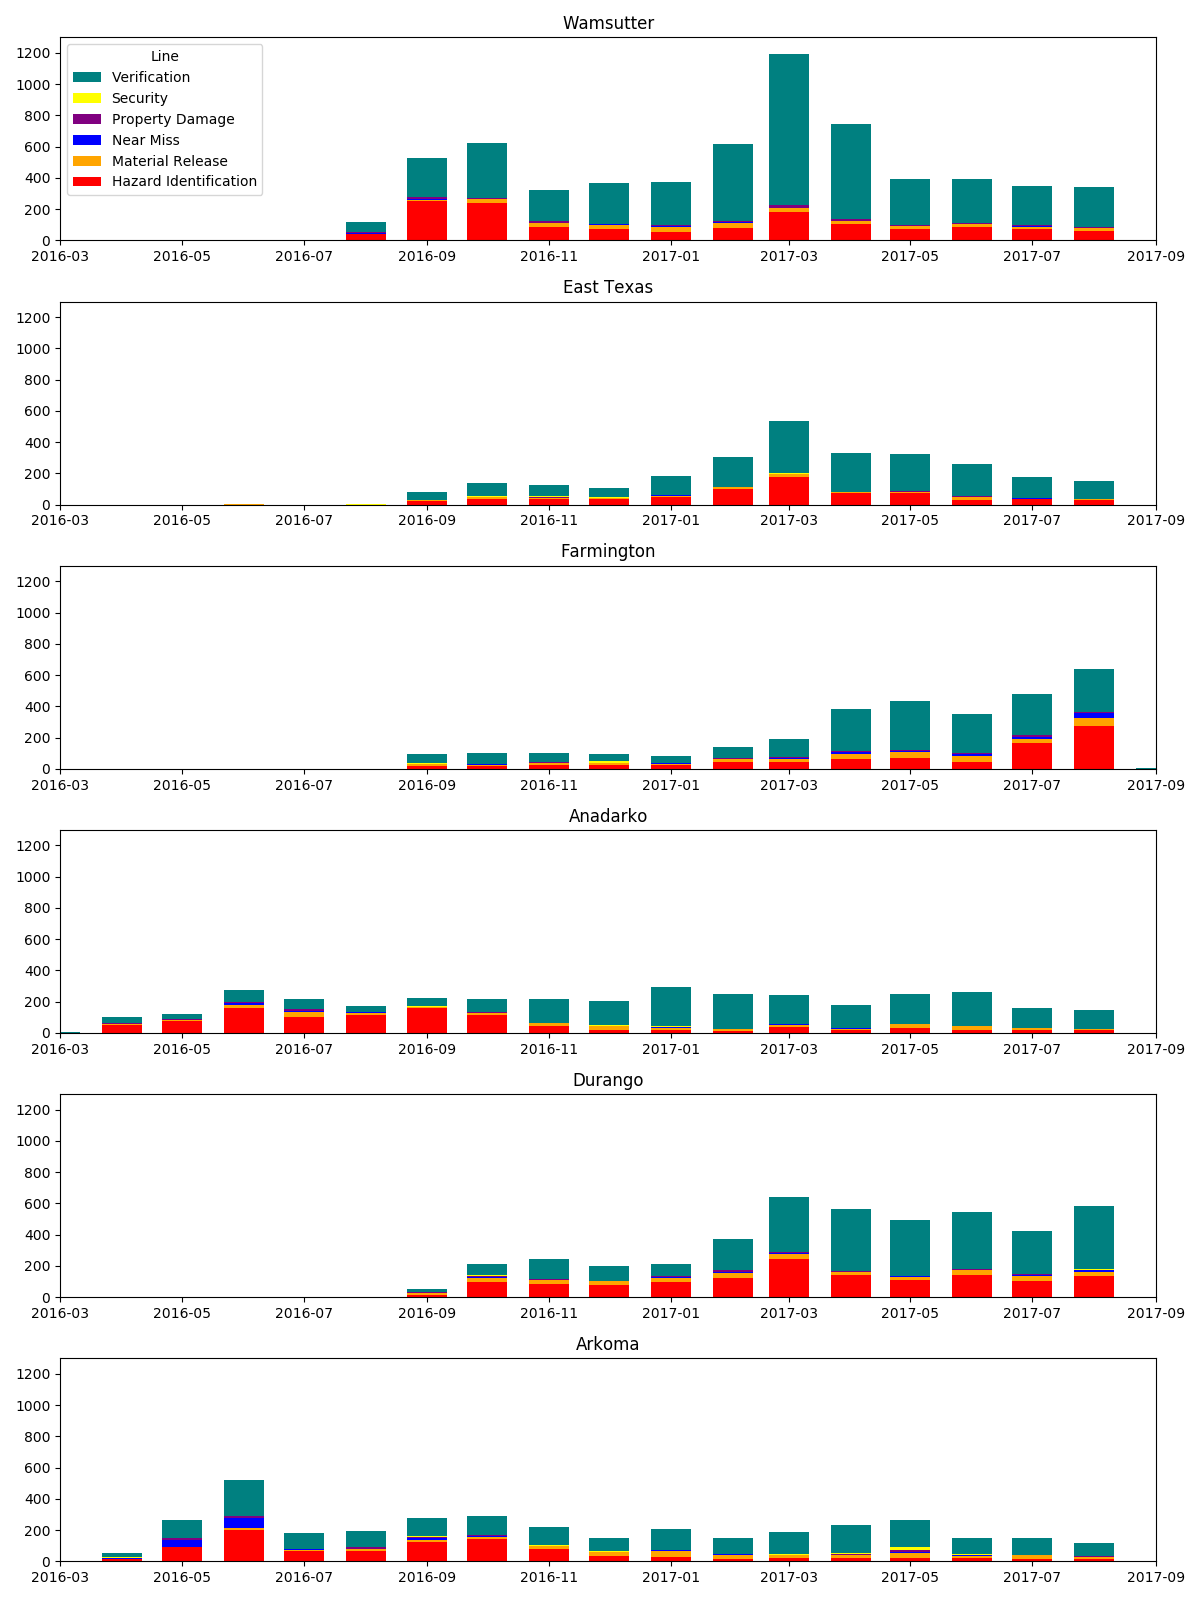
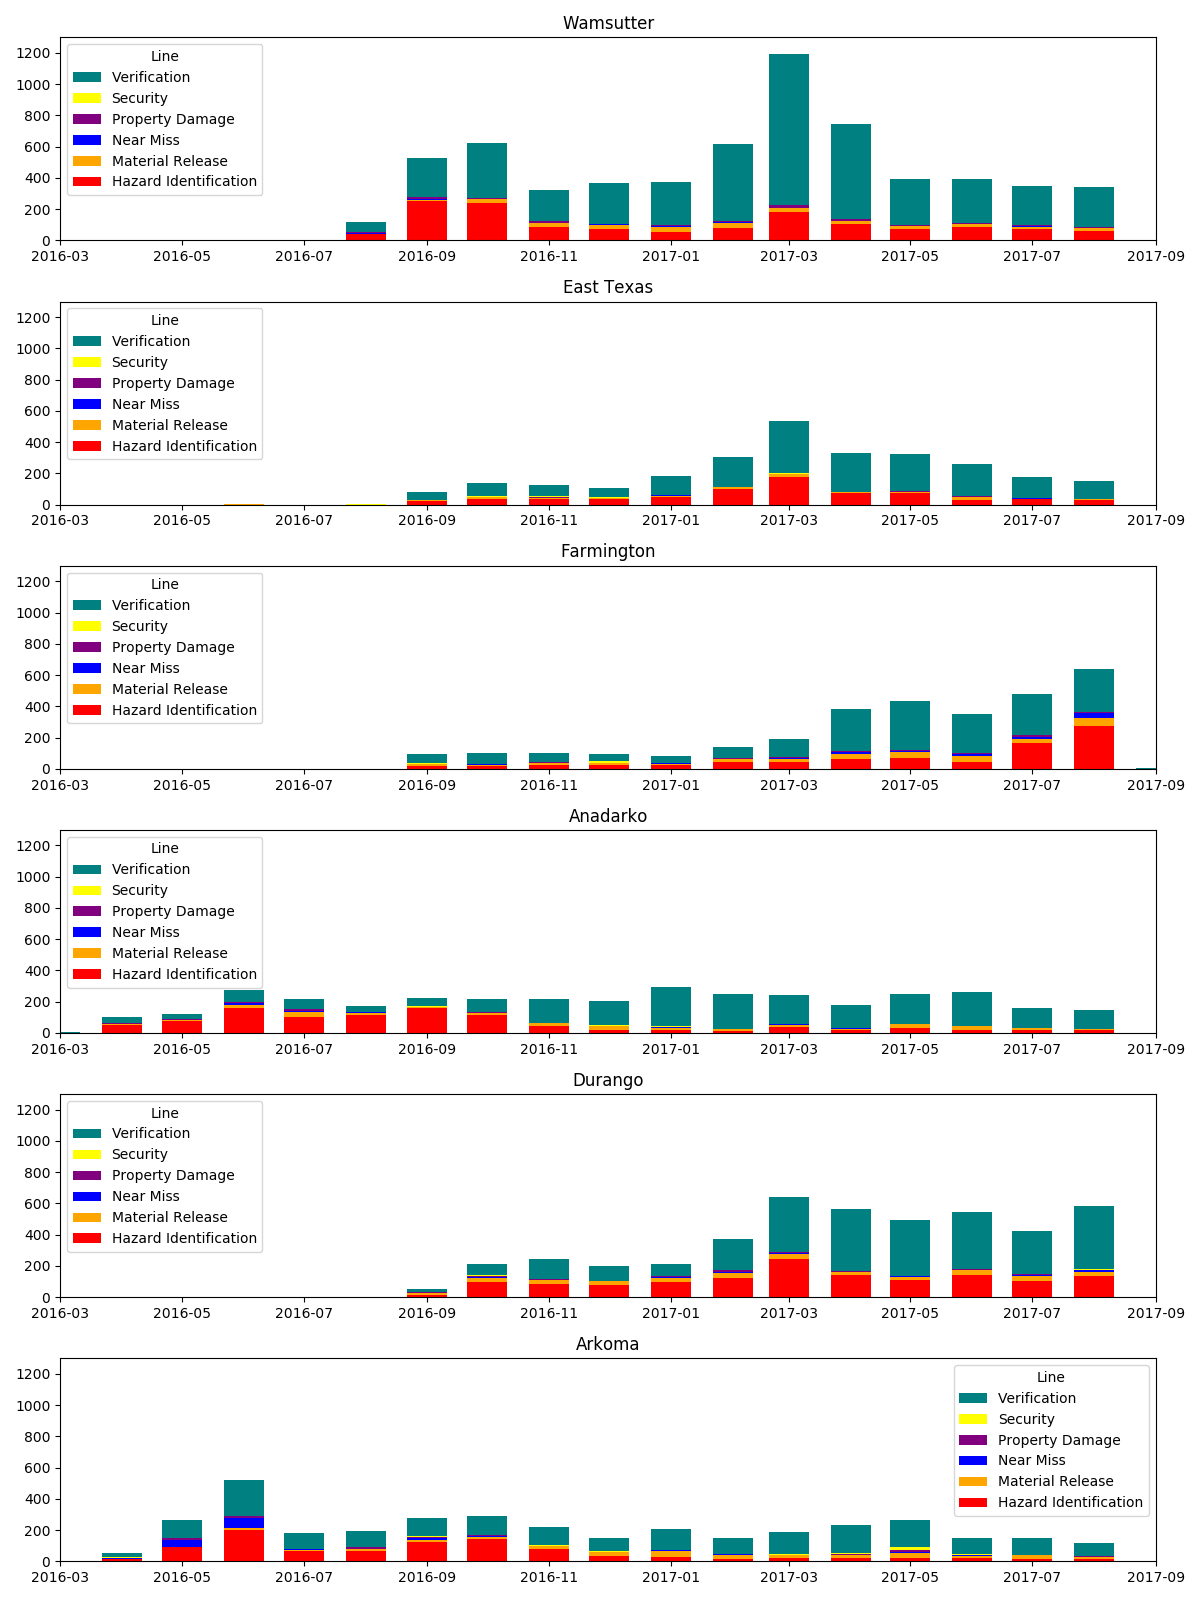
add legend to each plot in types_over_time.png

diff --git a/plots.py b/plots.py
@@ -37,9 +37,12 @@ def reports_by_type():
         ax.set_title(group)
         ax.set_xlim(min_month, max_month)
         ax.set_ylim(0, 1300)
-        if index == 0:
+        if index <= 4:
             handles, labels = ax.get_legend_handles_labels()
             ax.legend(handles[::-1], labels[::-1], title='Line', loc='upper left')
+        else:
+            handles, labels = ax.get_legend_handles_labels()
+            ax.legend(handles[::-1], labels[::-1], title='Line', loc='upper right')
     plt.tight_layout()
     plt.savefig('plots/types_over_time.png')
 
